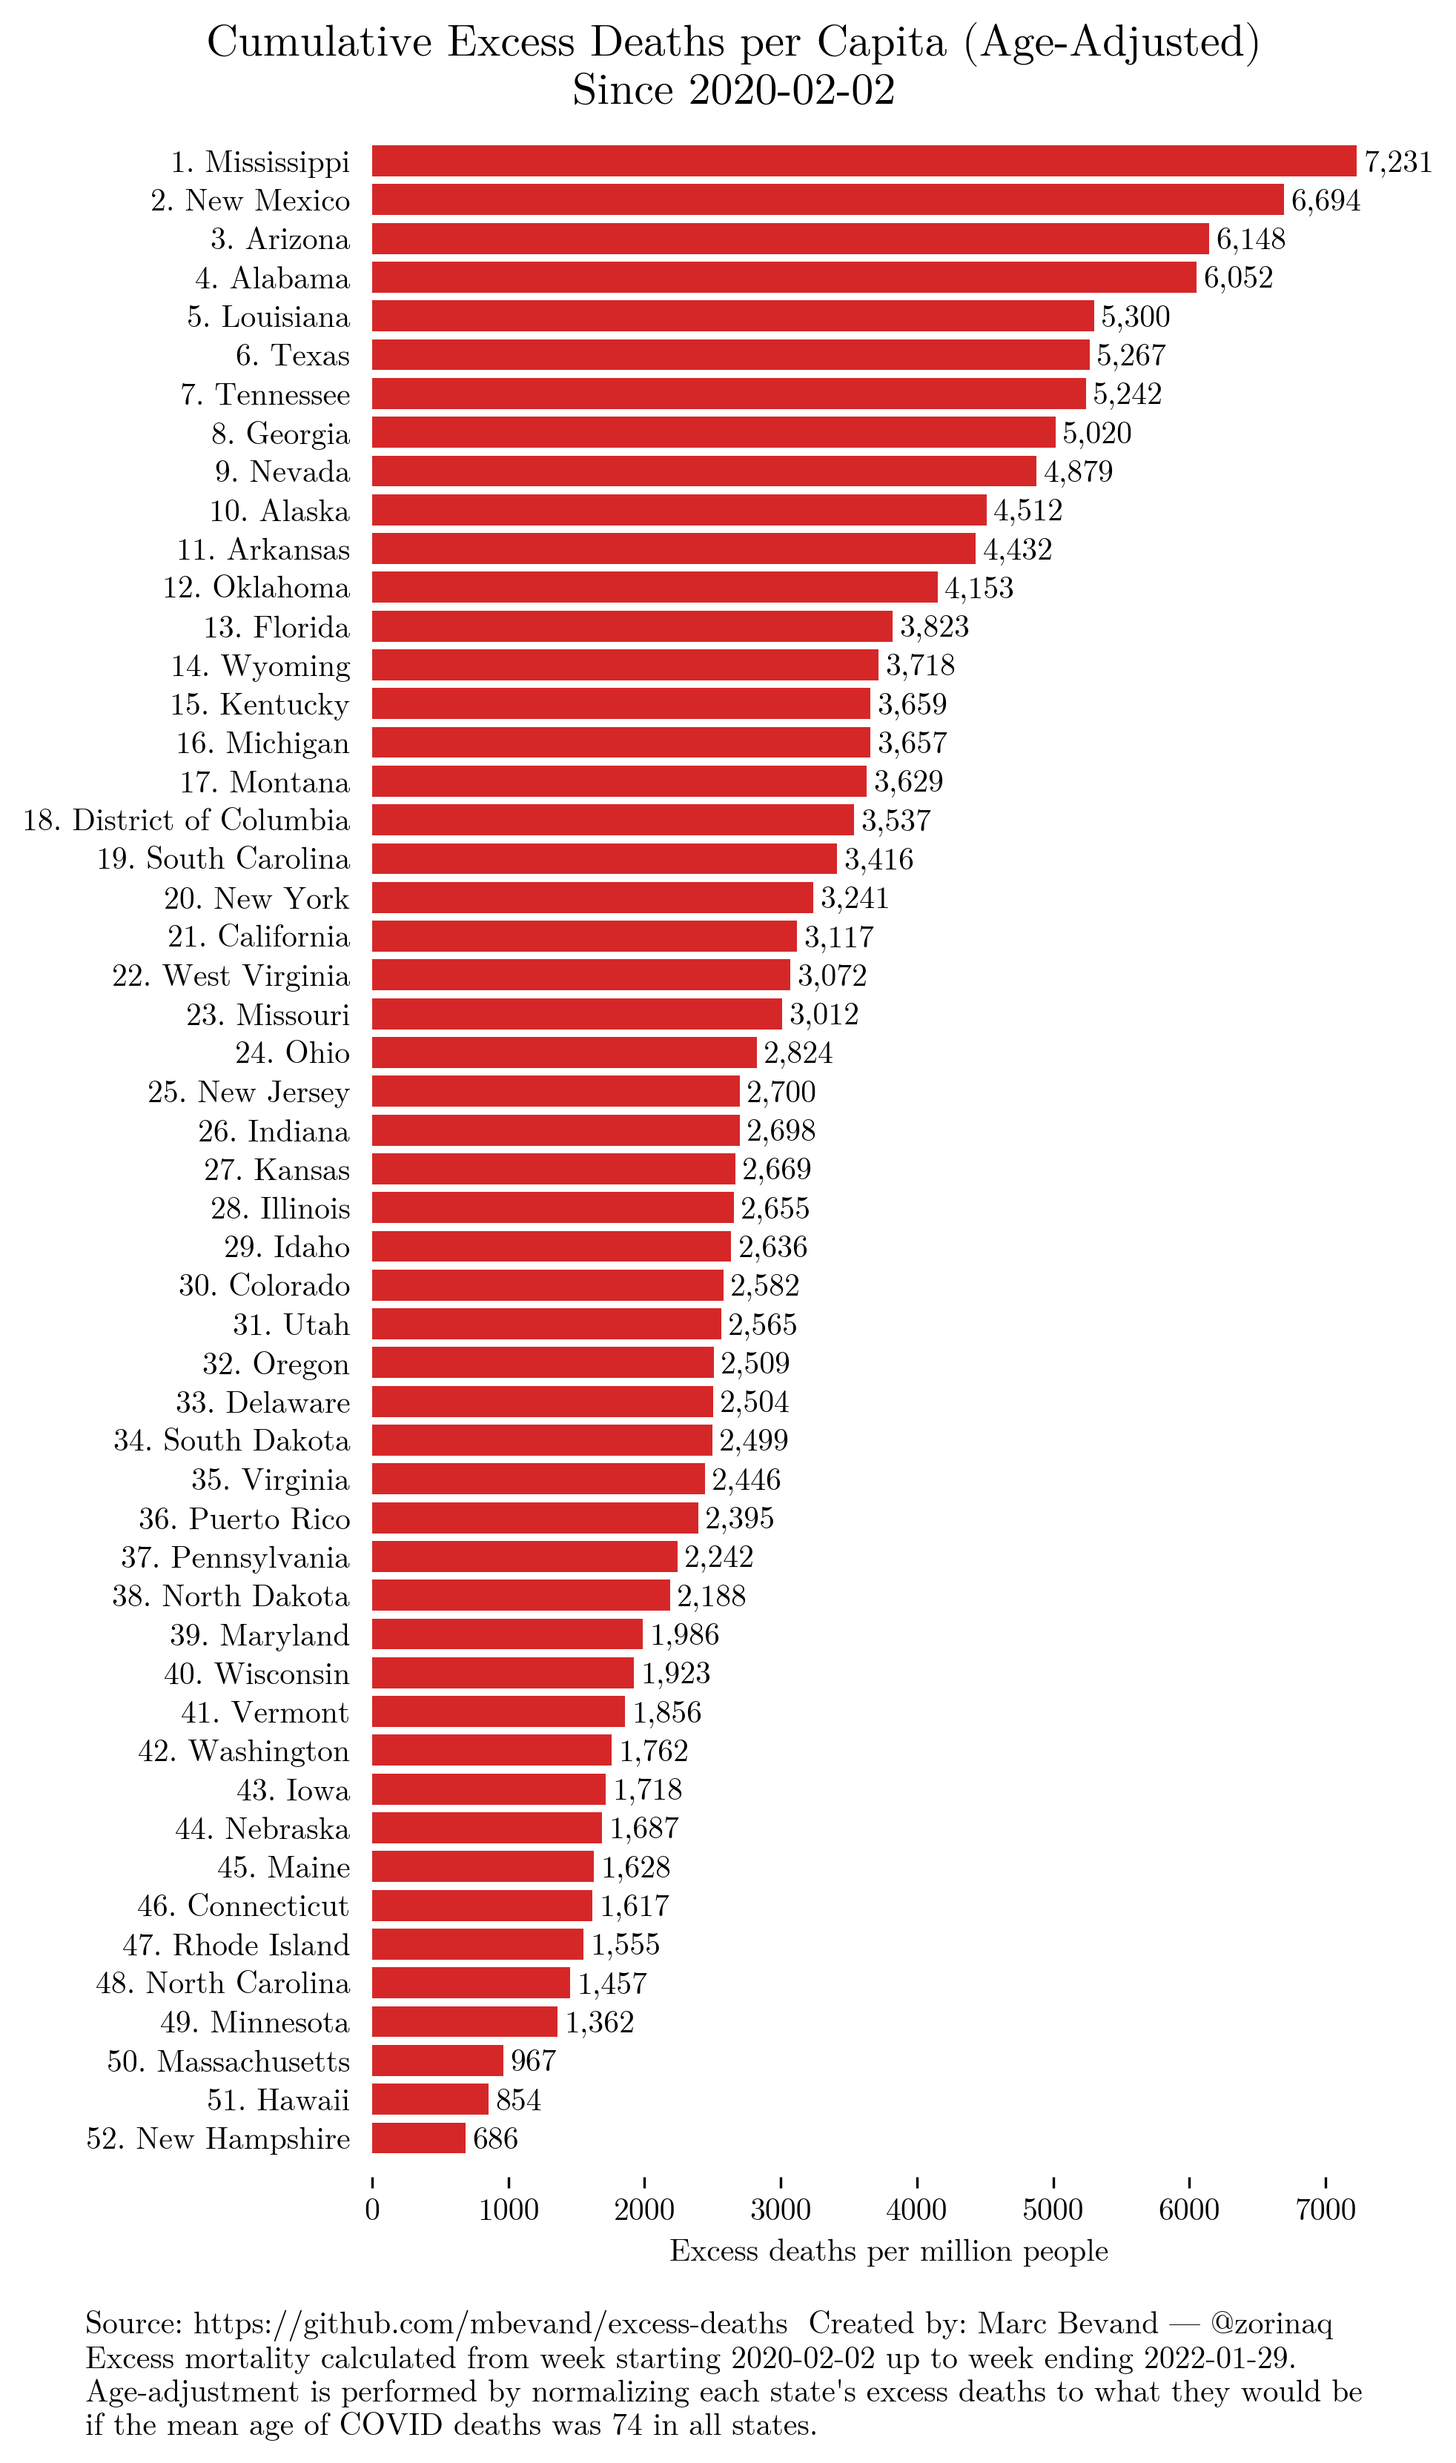
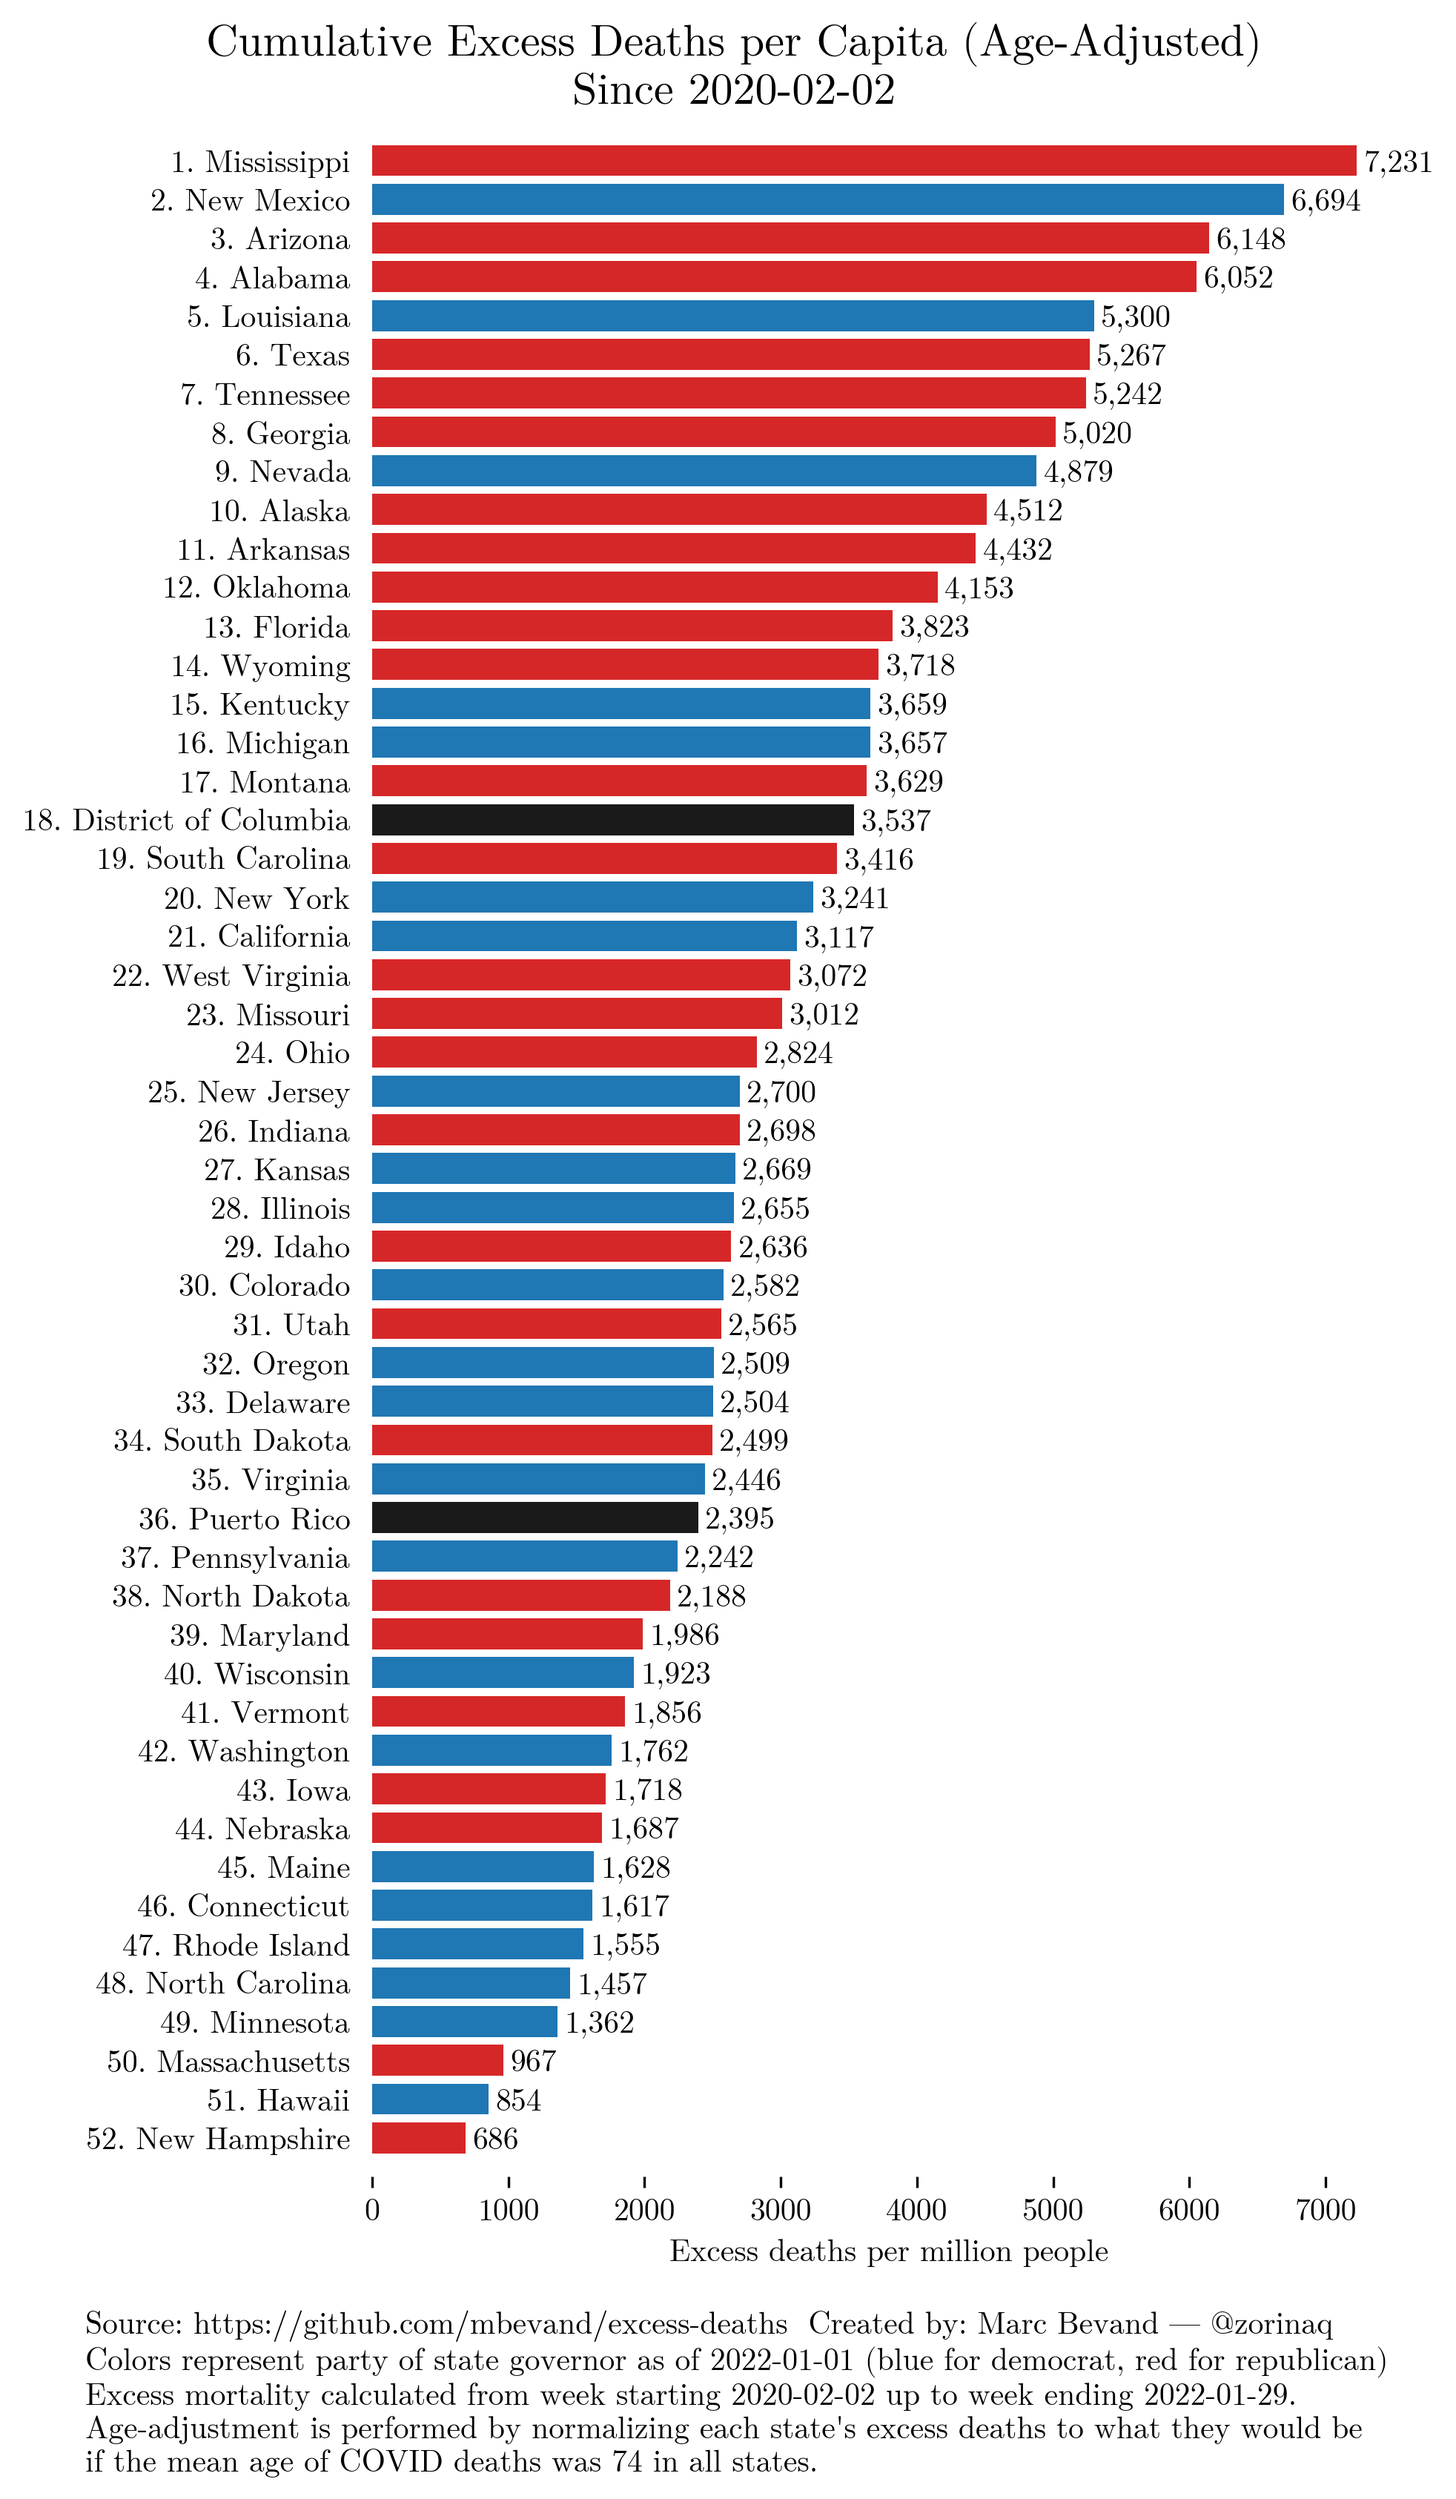
color-code states by party of state governor

diff --git a/process.py b/process.py
@@ -135,6 +135,60 @@ mean_age_of_covid_deaths = {
   'Massachusetts': 78.68565153733529,
 }
 
+# Party of governors, as of 01-Jan-2022
+party = {
+  'Alabama': 'republican',
+  'Alaska': 'republican',
+  'Arizona': 'republican',
+  'Arkansas': 'republican',
+  'California': 'democrat',
+  'Colorado': 'democrat',
+  'Connecticut': 'democrat',
+  'Delaware': 'democrat',
+  'Florida': 'republican',
+  'Georgia': 'republican',
+  'Hawaii': 'democrat',
+  'Idaho': 'republican',
+  'Illinois': 'democrat',
+  'Indiana': 'republican',
+  'Iowa': 'republican',
+  'Kansas': 'democrat',
+  'Kentucky': 'democrat',
+  'Louisiana': 'democrat',
+  'Maine': 'democrat',
+  'Maryland': 'republican',
+  'Massachusetts': 'republican',
+  'Michigan': 'democrat',
+  'Minnesota': 'democrat',
+  'Mississippi': 'republican',
+  'Missouri': 'republican',
+  'Montana': 'republican',
+  'Nebraska': 'republican',
+  'Nevada': 'democrat',
+  'New Hampshire': 'republican',
+  'New Jersey': 'democrat',
+  'New Mexico': 'democrat',
+  'New York': 'democrat',
+  'North Carolina': 'democrat',
+  'North Dakota': 'republican',
+  'Ohio': 'republican',
+  'Oklahoma': 'republican',
+  'Oregon': 'democrat',
+  'Pennsylvania': 'democrat',
+  'Rhode Island': 'democrat',
+  'South Carolina': 'republican',
+  'South Dakota': 'republican',
+  'Tennessee': 'republican',
+  'Texas': 'republican',
+  'Utah': 'republican',
+  'Vermont': 'republican',
+  'Virginia': 'democrat',
+  'Washington': 'democrat',
+  'West Virginia': 'republican',
+  'Wisconsin': 'democrat',
+  'Wyoming': 'republican',
+}
+
 def excess_for(df, state):
     def _excess_for(df, state):
         if weighted:
@@ -176,6 +230,7 @@ def age_adjust(state):
     return ifr_inc**(74 - mean_age_of_covid_deaths[state])
 
 def chart(res, last):
+    # res is an array of (state, excess_per_M) tuples
     # "Tableau 20" colors
     tableau20 = [(x[0] / 255., x[1] / 255., x[2] / 255.) for x in
         [(31, 119, 180), (174, 199, 232), (255, 127, 14), (255, 187, 120),
@@ -186,8 +241,16 @@ def chart(res, last):
     rcParams['font.family'] = ['serif']
     rcParams['font.serif'] = ['Latin Modern Math']
     (fig, ax) = plt.subplots(dpi=300, figsize=(6, 12))
+    colors = []
+    for (state, _) in res:
+        if state not in party:
+            colors.append((.1, .1, .1))
+        elif party[state] == 'democrat':
+            colors.append(tableau20[0])
+        elif party[state] == 'republican':
+            colors.append(tableau20[6])
     ax.barh([f'{len(pop) - i}. {x[0]}' for (i, x) in enumerate(res)],
-            [_[1] for _ in res], color=tableau20[6])
+            [_[1] for _ in res], color=colors)
     for (i, (s, e)) in enumerate(res):
         ax.text(e + 50, i - .07, f'{e:,.0f}', va='center')
     ax.set_ylim(bottom=-1, top=len(pop))
@@ -206,6 +269,8 @@ def chart(res, last):
     fig.text(-.09, .06,
             'Source: https://github.com/mbevand/excess-deaths  '
             'Created by: Marc Bevand — @zorinaq\n'
+            'Colors represent party of state governor as of 2022-01-01 '
+            '(blue for democrat, red for republican)\n'
             f'Excess mortality calculated from week starting {start_date} '
             f'up to week ending {last}.\n'
             f'{xtra}',
